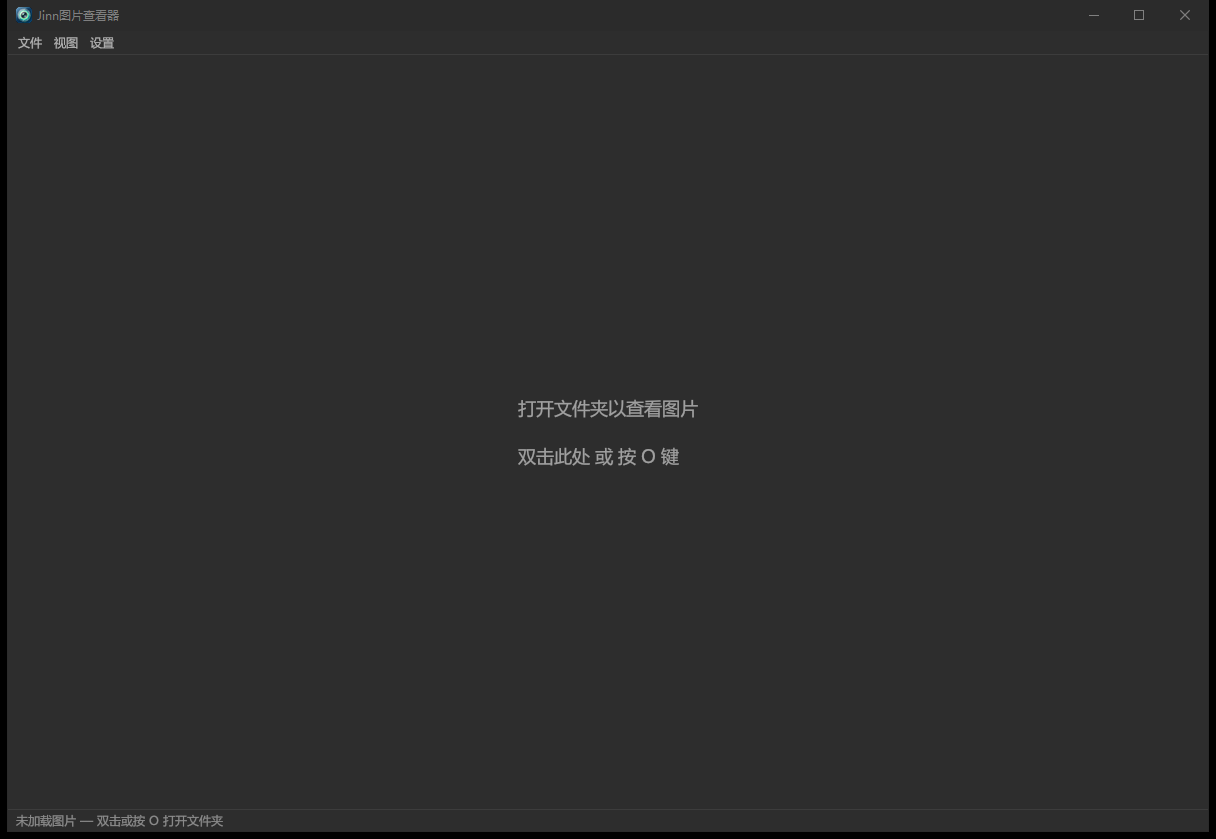
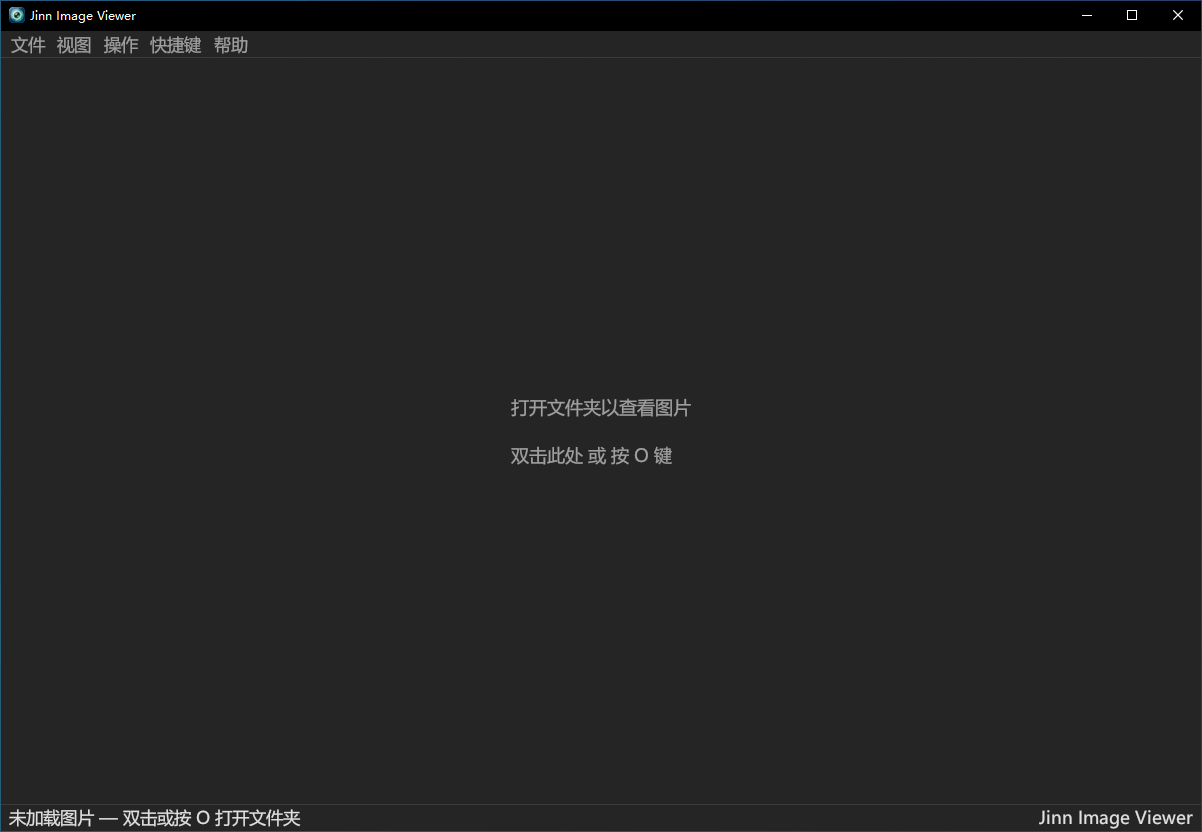
docs: 更新截图和README
重写 README.md 为 GitHub 风格展示页，添加功能预览截图和快捷键表；更新 AGENTS.md 项目概述。

Ultraworked with [Sisyphus](https://github.com/code-yeongyu/oh-my-openagent)

Changed region(s): [[0.0, 0.0, 1.0, 1.0], [0.4309, 0.4688, 0.5849, 0.5], [0.4309, 0.5312, 0.5541, 0.5625]]

diff --git a/README.md b/README.md
@@ -2,120 +2,214 @@
 
 # Jinn 图片查看器
 
-**轻量、快速、暗黑主题的 Windows 桌面图片浏览器**
+**一款轻量、快速、专注本地浏览的 Windows 图片查看器**
 
-基于 Rust + egui 构建，启动即用，无需安装
+基于 **Rust + egui/eframe** 构建，支持静态图片、GIF 动图、双列对比、缩略图导轨和多主题切换。
 
-[![Rust](https://img.shields.io/badge/Rust-1.70%2B-orange?logo=rust)](https://www.rust-lang.org/)
-[![Platform](https://img.shields.io/badge/Platform-Windows-blue?logo=windows)](https://github.com/yezijinn/jinn_imageviewer)
-[![License](https://img.shields.io/badge/License-MIT-green)](LICENSE)
+<p>
+  <a href="#功能"><img src="https://img.shields.io/badge/功能-本地浏览-2f80ed" alt="功能"></a>
+  <a href="#构建"><img src="https://img.shields.io/badge/平台-Windows-107c10" alt="平台"></a>
+  <a href="https://www.rust-lang.org/"><img src="https://img.shields.io/badge/Rust-2021-orange?logo=rust" alt="Rust"></a>
+  <a href="LICENSE"><img src="https://img.shields.io/badge/License-MIT-green" alt="License"></a>
+</p>
 
 </div>
 
 ---
 
-## 截图
+## 预览
 
-| 启动页面 | 单图展示 |
-|:--------:|:--------:|
-| <img src="screenshots/启动页面.png" width="480"/> | <img src="screenshots/单图展示.png" width="480"/> |
+### 启动与单图浏览
 
-| 双列展示 | 菜单栏 |
-|:--------:|:------:|
-| <img src="screenshots/双列展示.png" width="480"/> | <img src="screenshots/菜单.png" width="480"/> |
+<div align="center">
+  <img src="screenshots/启动页面.png" width="48%" alt="启动页面">
+  <img src="screenshots/静态图可操作.png" width="48%" alt="静态图片浏览">
+</div>
+
+### 双列对比、缩略图与菜单
+
+<div align="center">
+  <img src="screenshots/双列展示.png" width="48%" alt="双列对比浏览">
+  <img src="screenshots/缩略图导轨.png" width="48%" alt="缩略图导轨">
+</div>
+
+<div align="center">
+  <img src="screenshots/菜单.png" width="48%" alt="菜单操作">
+  <img src="screenshots/自定义快捷键.png" width="48%" alt="自定义快捷键">
+</div>
 
 ---
 
 ## 功能
 
-- **文件夹浏览** — 打开文件夹，自动扫描 PNG/JPG/JPEG/BMP/GIF/WebP/TIFF 图片，自然排序
-- **键盘导航** — 方向键切换图片，循环跳转（末张→首张，首张→末张）
-- **双列模式** — F2 切换左右并排对比浏览
-- **鼠标滚轮缩放** — 滚轮缩放，自动退出适应窗口模式，步长可调
-- **适应窗口** — V 键或鼠标右键一键适应窗口大小
-- **静默删除** — Delete 键直接删除当前图片文件（无确认弹窗）
-- **复制图片** — 1/2 键快速复制当前/右侧图片到 exe 同级 copy 目录
-- **暗黑主题** — 全局暗黑 UI + Windows 深色标题栏
-- **快捷键自定义** — 可视化面板修改任意操作的按键和修饰键
-- **状态栏** — 实时显示文件名、序号、缩放比例
-- **中文字体** — 自动加载 Windows 系统中文字体，无需额外配置
+### 浏览与操作
+
+- 打开文件夹后自动扫描图片，并按自然排序排列文件名
+- 支持 PNG、JPG、JPEG、BMP、GIF、WebP、TIFF、TIF
+- 单列浏览与双列对比浏览
+- GIF 动图播放，双列模式支持左右两侧独立播放
+- 缩略图导轨根据窗口宽度分页显示
+- 鼠标滚轮缩放，支持适应窗口模式
+- 支持顺时针/逆时针旋转图片
+- 支持复制当前图片和双列右侧图片
+- 支持删除当前图片，可选删除前确认
+- 支持图片信息、EXIF 信息和旋转结果保存
+
+### 界面与配置
+
+- 深色界面和 Windows 深色标题栏
+- 黑、蓝、紫、绿、灰五种主题
+- 中文 / English 界面切换
+- 快捷键可视化自定义
+- 最近使用目录和显示设置自动保存
+- 静态画面空闲时不持续刷新，降低 CPU/GPU 占用
+- 支持设置为 Windows 默认图片查看程序
 
 ---
 
 ## 快捷键
 
 | 操作 | 默认按键 |
-|------|---------|
+|---|---|
 | 打开文件夹 | `O` |
 | 上一张 | `←` / `↑` |
 | 下一张 | `→` / `↓` |
 | 删除图片 | `Delete` |
-| 双列模式 | `F2` |
+| 双列展示 | `F2` |
 | 复制当前图片 | `1` |
 | 复制右侧图片 | `2` |
 | 适应窗口 | `V` / 鼠标右键 |
+| 图片信息 | `F3` |
+| 幻灯片放映 | `F5` |
+| 全屏模式 | `F11` |
 | 关于 | `F1` |
 | 退出 | `Esc` |
 
-所有快捷键均可在 **设置 → 自定义快捷键** 面板中修改。
+所有快捷键均可在 **快捷键** 窗口中重新配置。
 
 ---
 
-## 编译
+## 使用方式
 
-### 前提条件
+### 直接运行
 
-- [Rust](https://rustup.rs/) (MSVC 工具链)
-- [Visual Studio](https://visualstudio.microsoft.com/) 2022+ (安装 **"使用 C++ 的桌面开发"** 工作负载)
+可以将图片文件或目录拖到程序上，也可以通过命令行传入路径：
 
-### 编译命令
+```powershell
+./target/release/jinn-imageviewer.exe "D:\Pictures"
+./target/release/jinn-imageviewer.exe "D:\Pictures\photo.jpg"
+```
 
-```bash
+也可以启动程序后使用菜单中的 **打开文件夹**。
+
+### 文件关联
+
+程序内置文件关联操作，也提供脚本：
+
+- `register.bat`：注册为 Windows 图片查看程序
+- `unregister.bat`：取消文件关联
+
+---
+
+## 构建
+
+### 环境要求
+
+- Windows 10/11
+- Rust stable
+- `stable-x86_64-pc-windows-msvc` 工具链
+- Visual Studio 2022 或更新版本
+- Visual Studio 的 **使用 C++ 的桌面开发** 工作负载
+
+检查工具链：
+
+```powershell
+rustup default stable-x86_64-pc-windows-msvc
+rustc --version
+cargo --version
+```
+
+### Release 构建
+
+```powershell
 cargo build --release
 ```
 
-编译产物位于 `target/release/jinn-imageviewer.exe`。
+生成文件：
+
+```text
+target/release/jinn-imageviewer.exe
+```
+
+也可以运行项目提供的构建脚本：
+
+```powershell
+./build.ps1
+```
+
+或双击：
+
+```text
+build_exe.bat
+```
+
+### 验证
+
+```powershell
+cargo fmt --all -- --check
+cargo check --all-targets --all-features
+cargo clippy --all-targets --all-features -- -D warnings
+cargo test --all-targets --all-features
+```
 
 ---
 
 ## 项目结构
 
-```
+```text
 jinn_imageviewer/
-├── Cargo.toml          # 项目配置和依赖
-├── Cargo.lock          # 依赖锁定
-├── build.rs            # 编译脚本：嵌入 exe 图标 + 生成编译日期版本号
-├── app_icon.ico        # 应用图标
 ├── src/
-│   └── main.rs         # 全部源码
-├── icons/PNG/          # 图标源文件 (16/32/48/64/128/256)
-└── screenshots/        # 截图
+│   ├── main.rs       # Windows 程序入口
+│   ├── app.rs        # 应用状态、快捷键和生命周期
+│   ├── ui.rs         # 菜单、图片区域、缩略图和窗口 UI
+│   ├── image.rs      # 图片扫描、解码、纹理和 GIF 管理
+│   ├── config.rs     # 配置读写
+│   ├── i18n.rs       # 中英文文本
+│   ├── shortcuts.rs  # 快捷键配置
+│   ├── sorting.rs    # 自然排序
+│   ├── theme.rs      # 主题和颜色
+│   └── lib.rs        # 模块导出
+├── tests/            # 集成测试
+├── screenshots/      # README 截图
+├── icons/            # 图标源文件
+├── app_icon.ico      # Windows 应用图标
+├── build.rs          # 编译资源和版本日期
+├── Cargo.toml        # Rust 项目配置
+└── Cargo.lock        # 依赖锁定文件
 ```
 
 ---
 
 ## 技术栈
 
-| 依赖 | 用途 |
-|------|------|
-| [eframe](https://crates.io/crates/eframe) 0.31 | GUI 框架 (基于 egui) |
-| [image](https://crates.io/crates/image) 0.25 | 图片解码 (PNG/JPG/BMP/GIF/WebP/TIFF) |
-| [rfd](https://crates.io/crates/rfd) 0.15 | 原生文件选择对话框 |
-| [raw-window-handle](https://crates.io/crates/raw-window-handle) 0.6 | 获取窗口原生句柄 (暗黑标题栏) |
-| [open](https://crates.io/crates/open) 5.0 | 打开外部链接 |
-| [winres](https://crates.io/crates/winres) 0.1 | 编译时嵌入 Windows 图标资源 |
-| [chrono](https://crates.io/crates/chrono) 0.4 | 编译时生成版本号日期 |
+| 组件 | 用途 |
+|---|---|
+| [eframe](https://crates.io/crates/eframe) | 原生窗口和 egui 应用框架 |
+| [egui](https://github.com/emilk/egui) | 即时模式 GUI |
+| [image](https://crates.io/crates/image) | 图片解码和 GIF 帧处理 |
+| [rfd](https://crates.io/crates/rfd) | Windows 原生文件夹选择框 |
+| [raw-window-handle](https://crates.io/crates/raw-window-handle) | 获取原生窗口句柄 |
+| [serde](https://crates.io/crates/serde) | 配置序列化 |
+| [winres](https://crates.io/crates/winres) | Windows 图标资源嵌入 |
 
 ---
 
-## License
+## 许可证
 
-[MIT](LICENSE)
-
----
+本项目采用 [MIT License](LICENSE)。
 
 <div align="center">
 
-**作者：叶子Jinn**
+**作者：叶子 Jinn**
 
 </div>

diff --git a/AGENTS.md b/AGENTS.md
@@ -4,7 +4,7 @@
 
 - **类型**: 单文件 Rust 桌面 GUI 应用（Windows-only）
 - **框架**: egui via `eframe` 0.31
-- **源码**: 全部在 `src/main.rs`（~1000 行），无 crate 拆分
+- **源码**: 全部在 `src/main.rs`（~940 行），无 crate 拆分
 - **构建产物**: `target/release/jinn-imageviewer.exe`
 - **图片格式**: 支持 PNG/JPG/JPEG/BMP/GIF/WebP/TIFF（由 `image` crate 决定）
 
@@ -18,10 +18,12 @@ cargo build --release
 target/release/jinn-imageviewer.exe
 ```
 
+**快捷脚本**: `build_exe.bat` 自动检测环境、构建并复制为 `Jinn图片查看器.exe`（首次构建约 5-10 分钟）
+
 **平台约束**:
 - Windows-only（`#![windows_subsystem = "windows"]` 隐藏控制台）
 - 需要 MSVC 工具链（`stable-x86_64-pc-windows-msvc`）
-- `build.rs` 在 Windows 上嵌入 `app_icon.ico` 为 exe 图标（依赖 `winres`）
+- `build.rs` 嵌入 `app_icon.ico` 为 exe 图标（依赖 `winres`）并生成编译日期版本号（`BUILD_DATE` 常量）
 
 ## 开发注意事项
 
@@ -29,6 +31,7 @@ target/release/jinn-imageviewer.exe
 - **中文字体加载**: 运行时从 `C:\Windows\Fonts\` 加载（simhei / simsunb / simkai / simfang / msyh），Windows 外运行会静默跳过
 - **FFI 依赖**: 使用 `dwmapi` 设置暗黑标题栏，仅 Windows 有效
 - **文件操作**: Delete 键直接删除图片（无确认弹窗）；复制到 exe 同级 `copy/` 目录
+- **自然排序**: 文件名按数字和文本片段分割排序（`natural_cmp` 函数），避免字典序问题（如 `img10.jpg` 排在 `img2.jpg` 后）
 
 ## 快捷操作（运行时）
 